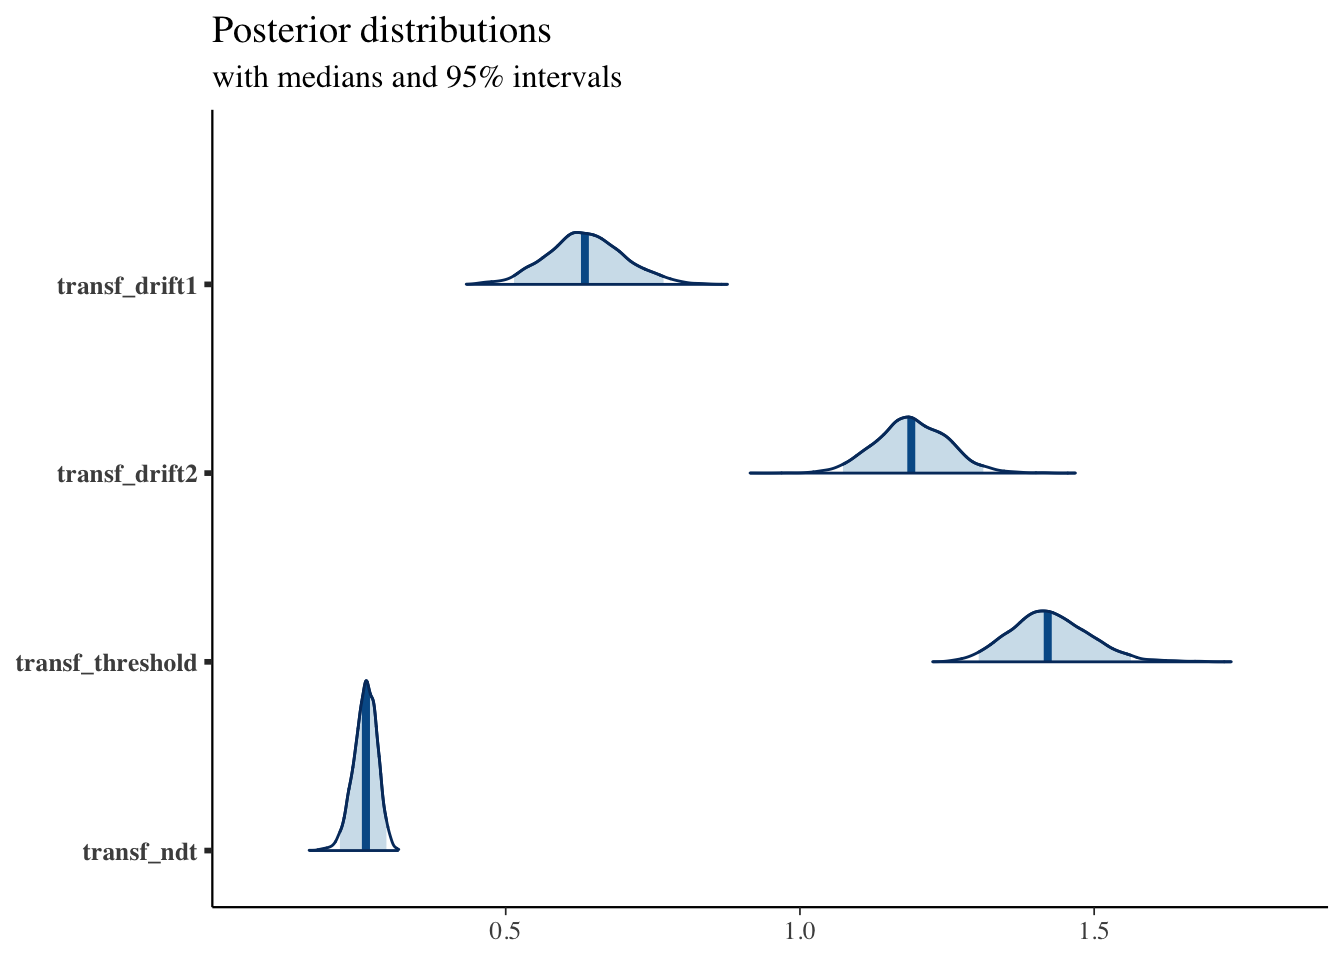
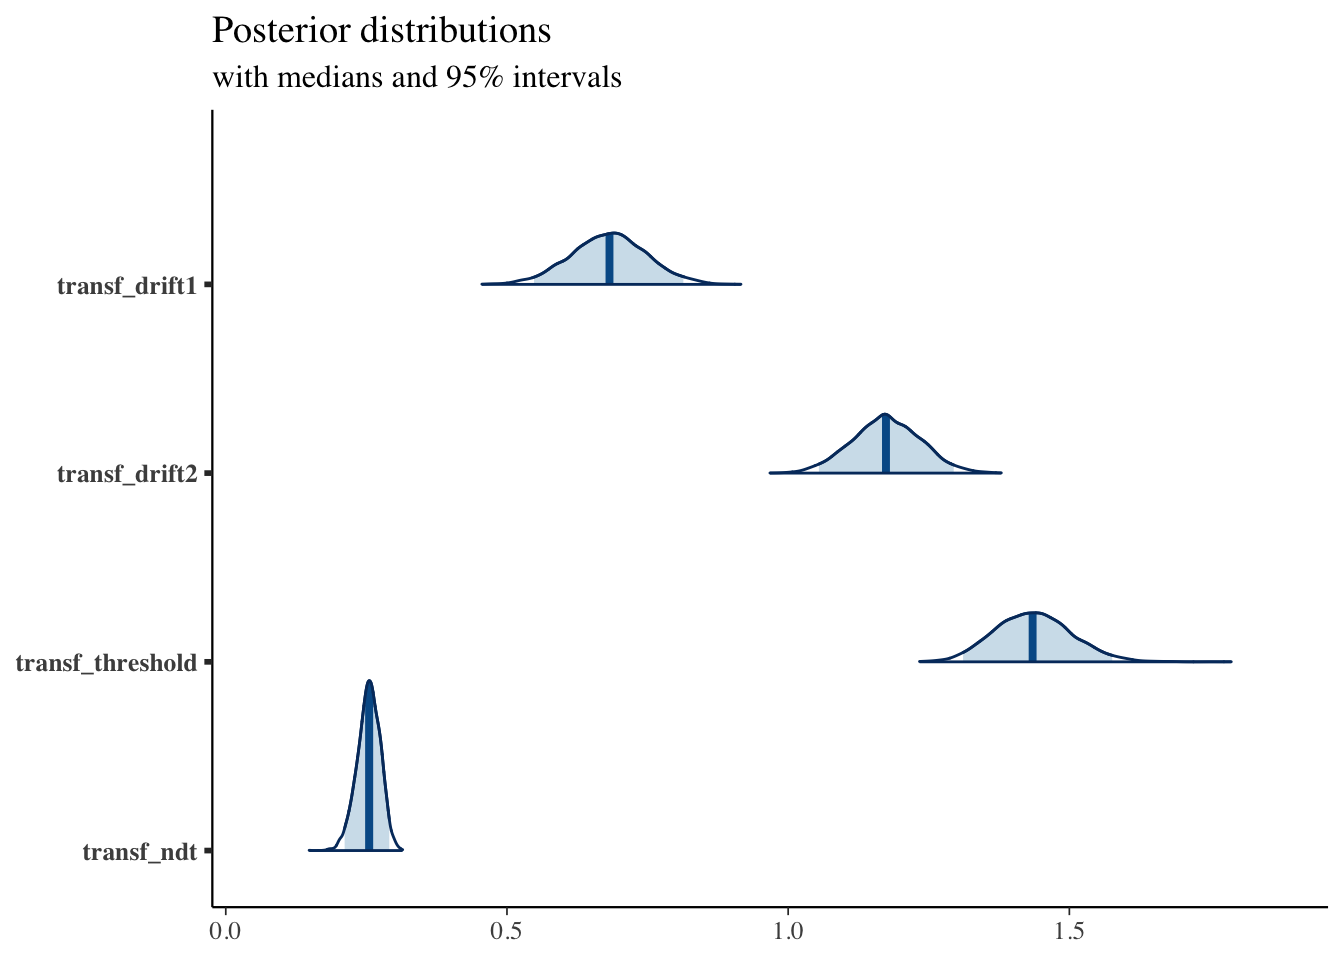
Added drift variability

diff --git a/docs/DM.html b/docs/DM.html
@@ -352,12 +352,12 @@ ggplot(data = sim_path, aes(x = time, y = dv))+
 <pre class="r"><code>sim_data &lt;- random_dm(n_trials=1000, drift=.7, threshold=1.5, ndt=.23)
 summary(sim_data)</code></pre>
 <pre><code>##      trial           accuracy           rt        
-##  Min.   :   1.0   Min.   :0.000   Min.   :0.2800  
-##  1st Qu.: 250.8   1st Qu.:0.000   1st Qu.:0.4710  
-##  Median : 500.5   Median :1.000   Median :0.6505  
-##  Mean   : 500.5   Mean   :0.745   Mean   :0.7737  
+##  Min.   :   1.0   Min.   :0.000   Min.   :0.2780  
+##  1st Qu.: 250.8   1st Qu.:0.000   1st Qu.:0.4680  
+##  Median : 500.5   Median :1.000   Median :0.6405  
+##  Mean   : 500.5   Mean   :0.746   Mean   :0.7662  
 ##  3rd Qu.: 750.2   3rd Qu.:1.000   3rd Qu.:0.9363  
-##  Max.   :1000.0   Max.   :1.000   Max.   :2.9680</code></pre>
+##  Max.   :1000.0   Max.   :1.000   Max.   :3.3230</code></pre>
 <pre class="r"><code>ggplot(data = sim_data, mapping = aes(x = rt, fill = factor(accuracy))) + 
   geom_histogram(binwidth=.05, alpha = .3, position=&quot;identity&quot;)</code></pre>
 <p><img src="DM_files/figure-html/unnamed-chunk-5-1.png" width="672" /></p>
@@ -367,12 +367,12 @@ sim_data2$accuracy = 0
 sim_data2[sim_data2$response==&quot;upper&quot;, &quot;accuracy&quot;] = 1
 summary(sim_data2)</code></pre>
 <pre><code>##        rt          response      accuracy    
-##  Min.   :0.2547   lower:268   Min.   :0.000  
-##  1st Qu.:0.4643   upper:732   1st Qu.:0.000  
-##  Median :0.6355               Median :1.000  
-##  Mean   :0.7492               Mean   :0.732  
-##  3rd Qu.:0.9257               3rd Qu.:1.000  
-##  Max.   :3.3555               Max.   :1.000</code></pre>
+##  Min.   :0.2728   lower:284   Min.   :0.000  
+##  1st Qu.:0.4623   upper:716   1st Qu.:0.000  
+##  Median :0.6041               Median :1.000  
+##  Mean   :0.7309               Mean   :0.716  
+##  3rd Qu.:0.8840               3rd Qu.:1.000  
+##  Max.   :2.8715               Max.   :1.000</code></pre>
 <div id="parameter-recovery-with-mle" class="section level2">
 <h2>Parameter recovery with MLE</h2>
 <p>An efficient approximation to the likelihood function of the DM can be found in the <a href="https://www.sciencedirect.com/science/article/pii/S0022249609000200?via%3Dihub#appC">Navarro &amp; Fuss paper</a>. In the appendix, you can find the matlab code and convert it to R. However, a computationally efficient version of it can be also found in the <code>rtdists</code> package as well. We just need to wrap it to use in the MLE fitting later on:</p>
@@ -388,14 +388,14 @@ summary(sim_data2)</code></pre>
 <pre class="r"><code>starting_values = c(.5, 1, .1) # set some starting values
 
 print(log_likelihood_dm(starting_values, data=sim_data2)) # check that starting values are plausible</code></pre>
-<pre><code>## [1] -9910.952</code></pre>
+<pre><code>## [1] -9599.715</code></pre>
 <pre class="r"><code>fit1 &lt;- nmkb(par = starting_values,
              fn = function (x) log_likelihood_dm(x, data=sim_data2),
              lower = c(0, -10, 0),
              upper = c(10, 10, 5),
              control = list(maximize = TRUE))
 print(fit1$par) # print estimated parameters</code></pre>
-<pre><code>## [1] 1.5103213 0.6715392 0.2274205</code></pre>
+<pre><code>## [1] 1.4613714 0.6382186 0.2362879</code></pre>
 </div>
 <div id="parameter-recovery-with-stan" class="section level2">
 <h2>Parameter Recovery with stan</h2>
@@ -426,11 +426,11 @@ sim_data_for_stan = list(
 ## post-warmup draws per chain=2000, total post-warmup draws=4000.
 ## 
 ##                  mean se_mean   sd 2.5%  25%  50%  75% 97.5% n_eff Rhat
-## drift            0.70       0 0.04 0.61 0.67 0.70 0.73  0.78  2774    1
-## transf_threshold 1.55       0 0.02 1.50 1.53 1.55 1.56  1.59  2194    1
-## transf_ndt       0.23       0 0.00 0.22 0.23 0.23 0.23  0.24  2213    1
+## drift            0.70       0 0.04 0.62 0.67 0.70 0.73  0.79  2914    1
+## transf_threshold 1.54       0 0.02 1.49 1.52 1.54 1.55  1.59  2661    1
+## transf_ndt       0.23       0 0.00 0.22 0.22 0.23 0.23  0.24  2752    1
 ## 
-## Samples were drawn using NUTS(diag_e) at Wed Sep  8 22:41:50 2021.
+## Samples were drawn using NUTS(diag_e) at Wed Sep  8 23:16:26 2021.
 ## For each parameter, n_eff is a crude measure of effective sample size,
 ## and Rhat is the potential scale reduction factor on split chains (at 
 ## convergence, Rhat=1).</code></pre>
@@ -439,13 +439,13 @@ sim_data_for_stan = list(
 <p><img src="DM_files/figure-html/unnamed-chunk-12-1.png" width="672" /></p>
 <pre class="r"><code>sampler_params &lt;- get_sampler_params(fit1, inc_warmup = TRUE)
 summary(do.call(rbind, sampler_params), digits = 2)</code></pre>
-<pre><code>##  accept_stat__    stepsize__       treedepth__   n_leapfrog__   divergent__        energy__    
-##  Min.   :0.00   Min.   : 0.0031   Min.   :0.0   Min.   : 1.0   Min.   :0.0000   Min.   :  821  
-##  1st Qu.:0.86   1st Qu.: 0.5584   1st Qu.:2.0   1st Qu.: 3.0   1st Qu.:0.0000   1st Qu.:  823  
-##  Median :0.95   Median : 0.6636   Median :2.0   Median : 7.0   Median :0.0000   Median :  824  
-##  Mean   :0.87   Mean   : 0.6537   Mean   :2.3   Mean   : 5.5   Mean   :0.0052   Mean   :  831  
-##  3rd Qu.:0.99   3rd Qu.: 0.6636   3rd Qu.:3.0   3rd Qu.: 7.0   3rd Qu.:0.0000   3rd Qu.:  825  
-##  Max.   :1.00   Max.   :14.3855   Max.   :6.0   Max.   :63.0   Max.   :1.0000   Max.   :10131</code></pre>
+<pre><code>##  accept_stat__    stepsize__       treedepth__   n_leapfrog__   divergent__        energy__   
+##  Min.   :0.00   Min.   :2.1e-04   Min.   :0.0   Min.   : 1.0   Min.   :0.0000   Min.   : 811  
+##  1st Qu.:0.86   1st Qu.:6.2e-01   1st Qu.:2.0   1st Qu.: 3.0   1st Qu.:0.0000   1st Qu.: 812  
+##  Median :0.95   Median :6.4e-01   Median :2.0   Median : 7.0   Median :0.0000   Median : 813  
+##  Mean   :0.87   Mean   :6.7e-01   Mean   :2.3   Mean   : 5.6   Mean   :0.0057   Mean   : 836  
+##  3rd Qu.:0.99   3rd Qu.:6.4e-01   3rd Qu.:3.0   3rd Qu.: 7.0   3rd Qu.:0.0000   3rd Qu.: 815  
+##  Max.   :1.00   Max.   :1.1e+01   Max.   :6.0   Max.   :63.0   Max.   :1.0000   Max.   :9640</code></pre>
 <p>More plotting:</p>
 <pre class="r"><code>posterior &lt;- as.matrix(fit1)
 
@@ -455,6 +455,60 @@ mcmc_areas(posterior,
            pars = c(&quot;drift&quot;, &quot;transf_threshold&quot;, &quot;transf_ndt&quot;),
            prob = 0.95) + plot_title</code></pre>
 <p><img src="DM_files/figure-html/unnamed-chunk-13-1.png" width="672" /></p>
+<p>Let’s now simulate data with across-trial variability in the drift-rate:</p>
+<pre class="r"><code>sim_data3 &lt;- rdiffusion(n=1000, a=1.5, v=.7, t0=.23, sv=1)
+sim_data3$accuracy = 0
+sim_data3[sim_data3$response==&quot;upper&quot;, &quot;accuracy&quot;] = 1
+summary(sim_data3)</code></pre>
+<pre><code>##        rt          response      accuracy    
+##  Min.   :0.2591   lower:333   Min.   :0.000  
+##  1st Qu.:0.4306   upper:667   1st Qu.:0.000  
+##  Median :0.5796               Median :1.000  
+##  Mean   :0.7041               Mean   :0.667  
+##  3rd Qu.:0.8374               3rd Qu.:1.000  
+##  Max.   :5.0391               Max.   :1.000</code></pre>
+<pre class="r"><code>sim_data3$accuracy_recoded = sim_data3$accuracy
+sim_data3[sim_data3$accuracy==0, &quot;accuracy_recoded&quot;] = -1
+
+sim_data_for_stan = list(
+  N = dim(sim_data3)[1],
+  accuracy = sim_data3$accuracy_recoded,
+  rt = sim_data3$rt,
+  starting_point = 0.5
+)</code></pre>
+<p>And fit the model with across-trial variability in the drift-rate:</p>
+<pre class="r"><code>fit2 &lt;- stan(
+  file = &quot;stan_models/DM_driftvar.stan&quot;,             # Stan program
+  data = sim_data_for_stan,                          # named list of data
+  chains = 2,                                        # number of Markov chains
+  warmup = 1000,                                     # number of warmup iterations per chain
+  iter = 3000,                                       # total number of iterations per chain
+  cores = 2                                          # number of cores (could use one per chain)
+)</code></pre>
+<p>Summary and plot:</p>
+<pre class="r"><code>print(fit2, pars = c(&quot;drift_trialmu&quot;, &quot;transf_drift_trialsd&quot;, &quot;transf_threshold&quot;, &quot;transf_ndt&quot;))</code></pre>
+<pre><code>## Inference for Stan model: DM_driftvar.
+## 2 chains, each with iter=3000; warmup=1000; thin=1; 
+## post-warmup draws per chain=2000, total post-warmup draws=4000.
+## 
+##                      mean se_mean   sd 2.5%  25%  50%  75% 97.5% n_eff Rhat
+## drift_trialmu        0.71    0.01 0.09 0.54 0.65 0.71 0.77  0.90   232 1.01
+## transf_drift_trialsd 1.22    0.02 0.27 0.67 1.04 1.22 1.40  1.76   125 1.02
+## transf_threshold     1.56    0.00 0.06 1.45 1.51 1.55 1.59  1.68   154 1.02
+## transf_ndt           0.22    0.00 0.00 0.21 0.22 0.22 0.23  0.23  1043 1.00
+## 
+## Samples were drawn using NUTS(diag_e) at Wed Sep  8 23:21:58 2021.
+## For each parameter, n_eff is a crude measure of effective sample size,
+## and Rhat is the potential scale reduction factor on split chains (at 
+## convergence, Rhat=1).</code></pre>
+<pre class="r"><code>posterior &lt;- as.matrix(fit2)
+
+plot_title &lt;- ggtitle(&quot;Posterior distributions&quot;,
+                      &quot;with medians and 95% intervals&quot;)
+mcmc_areas(posterior,
+           pars = c(&quot;drift_trialmu&quot;, &quot;transf_drift_trialsd&quot;, &quot;transf_threshold&quot;, &quot;transf_ndt&quot;),
+           prob = 0.95) + plot_title</code></pre>
+<p><img src="DM_files/figure-html/unnamed-chunk-16-1.png" width="672" /></p>
 </div>
 
 

diff --git a/docs/RLDM.html b/docs/RLDM.html
@@ -358,12 +358,12 @@ library(bayesplot)</code></pre>
 ## 4       4   54  5</code></pre>
 <pre class="r"><code>head(stimuli)</code></pre>
 <pre><code>##   trial trial_type inc_option cor_option f_inc f_cor
-## 1     1        1-2          1          2    28    27
-## 2     2        1-3          1          3    26    40
-## 3     3        2-4          2          4    41    54
-## 4     4        3-4          3          4    54    66
-## 5     5        1-2          1          2    32    32
-## 6     6        1-3          1          3    33    53</code></pre>
+## 1     1        1-2          1          2    30    37
+## 2     2        1-3          1          3    27    46
+## 3     3        2-4          2          4    35    47
+## 4     4        3-4          3          4    63    61
+## 5     5        1-2          1          2    22    33
+## 6     6        1-3          1          3    24    60</code></pre>
 <pre class="r"><code>stimuli_for_plotting &lt;- pivot_longer(stimuli, cols=c(f_inc, f_cor), names_to = &quot;option&quot;, names_prefix = &quot;f_&quot;, values_to=&quot;feedback&quot;)
 
 ggplot(data = stimuli_for_plotting, aes(x = trial, y = feedback, color=option))+
@@ -453,13 +453,13 @@ random_rldm &lt;- function(stimuli, alpha, drift_scaling, threshold, ndt, rel_sp
 <pre class="r"><code>sim_data &lt;- random_rldm(stimuli, alpha = .03, drift_scaling = .1, threshold = 1.2, ndt=.15)
 
 head(sim_data)</code></pre>
-<pre><code>##   trial trial_type inc_option cor_option f_inc f_cor   Q_cor    Q_inc      drift threshold  ndt accuracy    rt
-## 1     1        1-2          1          2    28    27 20.0000 20.00000  0.0000000       1.2 0.15        1 0.701
-## 2     2        1-3          1          3    26    40 20.0000 20.24000 -0.0240000       1.2 0.15        1 0.492
-## 3     3        2-4          2          4    41    54 20.0000 20.21000 -0.0210000       1.2 0.15        1 0.365
-## 4     4        3-4          3          4    54    66 21.0200 20.60000  0.0420000       1.2 0.15        1 0.508
-## 5     5        1-2          1          2    32    32 20.8337 20.41280  0.0420900       1.2 0.15        0 0.473
-## 6     6        1-3          1          3    33    53 21.6020 20.76042  0.0841584       1.2 0.15        1 0.297</code></pre>
+<pre><code>##   trial trial_type inc_option cor_option f_inc f_cor   Q_cor    Q_inc     drift threshold  ndt accuracy    rt
+## 1     1        1-2          1          2    30    37 20.0000 20.00000  0.000000       1.2 0.15        0 0.250
+## 2     2        1-3          1          3    27    46 20.0000 20.30000 -0.030000       1.2 0.15        0 1.832
+## 3     3        2-4          2          4    35    47 20.0000 20.51000 -0.051000       1.2 0.15        0 0.372
+## 4     4        3-4          3          4    63    61 20.8100 20.78000  0.003000       1.2 0.15        0 1.690
+## 5     5        1-2          1          2    22    33 20.9447 20.50100  0.044370       1.2 0.15        1 0.348
+## 6     6        1-3          1          3    24    60 22.0466 20.54597  0.150063       1.2 0.15        1 0.285</code></pre>
 <p>First, we can have a look at the average performance across trial-types. Note that, since the threshold was not modulated, the same performance is predicted across magnitudes:</p>
 <pre class="r"><code>sim_data$trial_bin &lt;- cut(sim_data$trial,
                           breaks = seq(min(sim_data$trial), max(sim_data$trial), length.out=7),
@@ -534,14 +534,14 @@ sim_data[sim_data$accuracy == 1, &quot;response&quot;] = &quot;upper&quot;
 starting_values = c(.5, .1, 2, .2) # set some starting values
 
 print(log_likelihood_rldm(starting_values, data=sim_data)) # check that starting values are plausible</code></pre>
-<pre><code>## [1] -474.2242</code></pre>
+<pre><code>## [1] -581.763</code></pre>
 <pre class="r"><code>fit1 &lt;- nmkb(par = starting_values,
              fn = function (x) log_likelihood_rldm(x, data=sim_data),
              lower = c(0, -10, 0, 0),
              upper = c(1, 10, 10, 5),
              control = list(maximize = TRUE))
 print(fit1$par) # print estimated parameters</code></pre>
-<pre><code>## [1] 0.01264504 0.17069675 1.28018012 0.15678612</code></pre>
+<pre><code>## [1] 0.04440228 0.10360590 1.30074250 0.14229977</code></pre>
 </div>
 <div id="parameter-recovery-with-stan" class="section level2">
 <h2>Parameter Recovery with stan</h2>
@@ -579,12 +579,12 @@ sim_data_for_stan = list(
 ## post-warmup draws per chain=2000, total post-warmup draws=4000.
 ## 
 ##                      mean se_mean   sd 2.5%  25%  50%  75% 97.5% n_eff Rhat
-## transf_alpha         0.04    0.00 0.05 0.00 0.02 0.03 0.05  0.16  1005 1.00
-## transf_drift_scaling 0.14    0.01 0.12 0.07 0.09 0.11 0.15  0.46    93 1.02
-## transf_threshold     1.29    0.00 0.05 1.20 1.25 1.28 1.32  1.39  1298 1.00
-## transf_ndt           0.15    0.00 0.01 0.14 0.15 0.16 0.16  0.17  1389 1.00
+## transf_alpha         0.08       0 0.06 0.02 0.05 0.07 0.10  0.25  1640    1
+## transf_drift_scaling 0.10       0 0.02 0.07 0.09 0.09 0.10  0.13  1888    1
+## transf_threshold     1.31       0 0.05 1.22 1.27 1.31 1.34  1.41  1840    1
+## transf_ndt           0.14       0 0.01 0.12 0.14 0.14 0.15  0.15  1800    1
 ## 
-## Samples were drawn using NUTS(diag_e) at Wed Sep  8 22:46:27 2021.
+## Samples were drawn using NUTS(diag_e) at Wed Sep  8 23:26:19 2021.
 ## For each parameter, n_eff is a crude measure of effective sample size,
 ## and Rhat is the potential scale reduction factor on split chains (at 
 ## convergence, Rhat=1).</code></pre>
@@ -594,13 +594,13 @@ sim_data_for_stan = list(
 <p><img src="RLDM_files/figure-html/unnamed-chunk-14-1.png" width="672" /></p>
 <pre class="r"><code>sampler_params &lt;- get_sampler_params(fit1, inc_warmup = TRUE)
 summary(do.call(rbind, sampler_params), digits = 2)</code></pre>
-<pre><code>##  accept_stat__    stepsize__       treedepth__   n_leapfrog__  divergent__        energy__   
-##  Min.   :0.00   Min.   :7.6e-04   Min.   :0.0   Min.   :  1   Min.   :0.0000   Min.   :  73  
-##  1st Qu.:0.86   1st Qu.:1.8e-01   1st Qu.:3.0   1st Qu.:  7   1st Qu.:0.0000   1st Qu.:  75  
-##  Median :0.96   Median :2.0e-01   Median :4.0   Median : 15   Median :0.0000   Median :  76  
-##  Mean   :0.86   Mean   :2.2e-01   Mean   :3.5   Mean   : 17   Mean   :0.0072   Mean   :  88  
-##  3rd Qu.:0.99   3rd Qu.:2.0e-01   3rd Qu.:4.0   3rd Qu.: 23   3rd Qu.:0.0000   3rd Qu.:  78  
-##  Max.   :1.00   Max.   :1.4e+01   Max.   :8.0   Max.   :383   Max.   :1.0000   Max.   :7114</code></pre>
+<pre><code>##  accept_stat__    stepsize__       treedepth__   n_leapfrog__  divergent__        energy__    
+##  Min.   :0.00   Min.   :6.2e-05   Min.   :0.0   Min.   :  1   Min.   :0.0000   Min.   :   69  
+##  1st Qu.:0.91   1st Qu.:3.0e-01   1st Qu.:3.0   1st Qu.:  7   1st Qu.:0.0000   1st Qu.:   72  
+##  Median :0.97   Median :3.6e-01   Median :3.0   Median :  7   Median :0.0000   Median :   73  
+##  Mean   :0.90   Mean   :3.9e-01   Mean   :2.9   Mean   : 10   Mean   :0.0058   Mean   :  129  
+##  3rd Qu.:0.99   3rd Qu.:3.6e-01   3rd Qu.:3.0   3rd Qu.: 15   3rd Qu.:0.0000   3rd Qu.:   74  
+##  Max.   :1.00   Max.   :1.4e+01   Max.   :8.0   Max.   :255   Max.   :1.0000   Max.   :16935</code></pre>
 <p>More plotting:</p>
 <pre class="r"><code>posterior &lt;- as.matrix(fit1)
 

diff --git a/docs/RDM.html b/docs/RDM.html
@@ -355,25 +355,25 @@ ggplot(data = sim_path, aes(x = time, y = dv, color=factor(accumulator)))+
 <pre class="r"><code>sim_data &lt;- random_rdm(n_trials=1000, drift1=.7, drift2=1.2, threshold=1.5, ndt=.23)
 summary(sim_data)</code></pre>
 <pre><code>##      trial            choice            rt        
-##  Min.   :   1.0   Min.   :1.000   Min.   :0.3920  
-##  1st Qu.: 250.8   1st Qu.:1.000   1st Qu.:0.7618  
-##  Median : 500.5   Median :2.000   Median :1.0130  
-##  Mean   : 500.5   Mean   :1.668   Mean   :1.1608  
-##  3rd Qu.: 750.2   3rd Qu.:2.000   3rd Qu.:1.4060  
-##  Max.   :1000.0   Max.   :2.000   Max.   :3.9410</code></pre>
+##  Min.   :   1.0   Min.   :1.000   Min.   :0.3150  
+##  1st Qu.: 250.8   1st Qu.:1.000   1st Qu.:0.7518  
+##  Median : 500.5   Median :2.000   Median :1.0115  
+##  Mean   : 500.5   Mean   :1.643   Mean   :1.1430  
+##  3rd Qu.: 750.2   3rd Qu.:2.000   3rd Qu.:1.3980  
+##  Max.   :1000.0   Max.   :2.000   Max.   :4.7470</code></pre>
 <pre class="r"><code>ggplot(data = sim_data, mapping = aes(x = rt, fill = factor(choice))) + 
   geom_histogram(binwidth=.05, alpha = .3, position=&quot;identity&quot;)</code></pre>
 <p><img src="RDM_files/figure-html/unnamed-chunk-5-1.png" width="672" /></p>
 <p>The same results can be obtained with the R <a href="https://osf.io/3sp9t/">code</a> attached to the original paper, which can be downloaded and loaded in R:</p>
 <pre class="r"><code>sim_data &lt;- rWaldRace(n=1000, v=c(.7, 1.2), B=1.5, A=0, t0=.23, gf = 0)
 summary(sim_data)</code></pre>
-<pre><code>##        RT               R        
-##  Min.   :0.4061   Min.   :1.000  
-##  1st Qu.:0.7432   1st Qu.:1.000  
-##  Median :0.9775   Median :2.000  
-##  Mean   :1.1495   Mean   :1.659  
-##  3rd Qu.:1.3653   3rd Qu.:2.000  
-##  Max.   :5.5369   Max.   :2.000</code></pre>
+<pre><code>##        RT               R       
+##  Min.   :0.3985   Min.   :1.00  
+##  1st Qu.:0.7441   1st Qu.:1.00  
+##  Median :0.9866   Median :2.00  
+##  Mean   :1.1444   Mean   :1.64  
+##  3rd Qu.:1.3671   3rd Qu.:2.00  
+##  Max.   :4.8739   Max.   :2.00</code></pre>
 <div id="parameter-recovery-with-mle" class="section level2">
 <h2>Parameter recovery with MLE</h2>
 <p>In the same file, we can also find the likelihood function.</p>
@@ -394,14 +394,14 @@ summary(sim_data)</code></pre>
 starting_values = c(1, 1, 1, .1) # set some starting values
 
 print(log_likelihood_rdm(starting_values, data=sim_data))</code></pre>
-<pre><code>## [1] -2043.087</code></pre>
+<pre><code>## [1] -2033.958</code></pre>
 <pre class="r"><code>fit1 &lt;- nmkb(par = starting_values,
              fn = function (x) log_likelihood_rdm(x, data=sim_data),
              lower = c(0, 0, 0, 0),
              upper = c(10, 10, 10, 5),
              control = list(maximize = TRUE))
 print(fit1$par) # print estimated parameters</code></pre>
-<pre><code>## [1] 0.6328157 1.1856495 1.4146659 0.2652961</code></pre>
+<pre><code>## [1] 0.6788203 1.1721012 1.4287021 0.2572723</code></pre>
 </div>
 <div id="parameter-recovery-with-stan" class="section level2">
 <h2>Parameter Recovery with stan</h2>
@@ -428,12 +428,12 @@ print(fit1$par) # print estimated parameters</code></pre>
 ## post-warmup draws per chain=2000, total post-warmup draws=4000.
 ## 
 ##                  mean se_mean   sd 2.5%  25%  50%  75% 97.5% n_eff Rhat
-## transf_drift1    0.64       0 0.07 0.51 0.59 0.63 0.68  0.77  1100    1
-## transf_drift2    1.19       0 0.06 1.07 1.15 1.19 1.23  1.31  1135    1
-## transf_threshold 1.43       0 0.07 1.30 1.38 1.42 1.47  1.56   848    1
-## transf_ndt       0.26       0 0.02 0.22 0.25 0.26 0.28  0.30   912    1
+## transf_drift1    0.68       0 0.07 0.55 0.64 0.68 0.73  0.81  1133    1
+## transf_drift2    1.17       0 0.06 1.05 1.13 1.17 1.22  1.29  1010    1
+## transf_threshold 1.44       0 0.07 1.31 1.39 1.43 1.48  1.58   924    1
+## transf_ndt       0.25       0 0.02 0.21 0.24 0.25 0.27  0.29  1040    1
 ## 
-## Samples were drawn using NUTS(diag_e) at Wed Sep  8 22:44:14 2021.
+## Samples were drawn using NUTS(diag_e) at Wed Sep  8 23:24:18 2021.
 ## For each parameter, n_eff is a crude measure of effective sample size,
 ## and Rhat is the potential scale reduction factor on split chains (at 
 ## convergence, Rhat=1).</code></pre>
@@ -442,13 +442,13 @@ print(fit1$par) # print estimated parameters</code></pre>
 <p><img src="RDM_files/figure-html/unnamed-chunk-11-1.png" width="672" /></p>
 <pre class="r"><code>sampler_params &lt;- get_sampler_params(fit1, inc_warmup = TRUE)
 summary(do.call(rbind, sampler_params), digits = 2)</code></pre>
-<pre><code>##  accept_stat__    stepsize__       treedepth__   n_leapfrog__  divergent__        energy__    
-##  Min.   :0.00   Min.   : 0.0037   Min.   :0.0   Min.   :  1   Min.   :0.0000   Min.   : 1246  
-##  1st Qu.:0.87   1st Qu.: 0.2321   1st Qu.:3.0   1st Qu.:  7   1st Qu.:0.0000   1st Qu.: 1248  
-##  Median :0.96   Median : 0.2483   Median :3.0   Median : 15   Median :0.0000   Median : 1249  
-##  Mean   :0.88   Mean   : 0.2593   Mean   :3.2   Mean   : 13   Mean   :0.0087   Mean   : 1253  
-##  3rd Qu.:0.99   3rd Qu.: 0.2483   3rd Qu.:4.0   3rd Qu.: 15   3rd Qu.:0.0000   3rd Qu.: 1251  
-##  Max.   :1.00   Max.   :14.3855   Max.   :7.0   Max.   :183   Max.   :1.0000   Max.   :11465</code></pre>
+<pre><code>##  accept_stat__    stepsize__       treedepth__   n_leapfrog__  divergent__        energy__   
+##  Min.   :0.00   Min.   : 0.0028   Min.   :0.0   Min.   :  1   Min.   :0.0000   Min.   :1255  
+##  1st Qu.:0.88   1st Qu.: 0.2186   1st Qu.:3.0   1st Qu.:  7   1st Qu.:0.0000   1st Qu.:1257  
+##  Median :0.96   Median : 0.2438   Median :3.0   Median : 15   Median :0.0000   Median :1258  
+##  Mean   :0.89   Mean   : 0.2587   Mean   :3.2   Mean   : 14   Mean   :0.0073   Mean   :1260  
+##  3rd Qu.:0.99   3rd Qu.: 0.2438   3rd Qu.:4.0   3rd Qu.: 15   3rd Qu.:0.0000   3rd Qu.:1260  
+##  Max.   :1.00   Max.   :14.3855   Max.   :6.0   Max.   :127   Max.   :1.0000   Max.   :2823</code></pre>
 <p>More plotting:</p>
 <pre class="r"><code>posterior &lt;- as.matrix(fit1)
 

diff --git a/docs/group_project.html b/docs/group_project.html
@@ -370,21 +370,21 @@ create_stimuli &lt;- function(n_trials, mean_1=12.375, mean_2=20.625, sd=6.1875)
 stimuli &lt;- create_stimuli(1000) # simulate 1000 trials (for example)
 summary(stimuli)</code></pre>
 <pre><code>##      dist1           dist2         source       strength     instruction 
-##  Min.   : 1.00   Min.   : 2.00   dark :526   16     : 65   accuracy:500  
-##  1st Qu.: 8.00   1st Qu.:16.00   light:474   13     : 60   speed   :500  
-##  Median :12.00   Median :20.00               14     : 55                 
-##  Mean   :12.46   Mean   :19.71               12     : 50                 
-##  3rd Qu.:16.00   3rd Qu.:24.00               17     : 48                 
-##  Max.   :33.00   Max.   :33.00               15     : 47                 
-##                                              (Other):675</code></pre>
+##  Min.   : 1.00   Min.   : 2.00   dark :518   15     : 58   accuracy:500  
+##  1st Qu.: 8.00   1st Qu.:16.00   light:482   17     : 55   speed   :500  
+##  Median :12.00   Median :20.00               14     : 53                 
+##  Mean   :12.22   Mean   :19.91               19     : 52                 
+##  3rd Qu.:16.00   3rd Qu.:24.00               20     : 52                 
+##  Max.   :30.00   Max.   :33.00               11     : 47                 
+##                                              (Other):683</code></pre>
 <pre class="r"><code>head(stimuli)</code></pre>
 <pre><code>##   dist1 dist2 source strength instruction
-## 1     7    23  light       23       speed
-## 2    14    22  light       22       speed
-## 3    14    22  light       22       speed
-## 4    15    20  light       20       speed
-## 5     5    23  light       23       speed
-## 6     9    24  light       24       speed</code></pre>
+## 1    16    31   dark       16       speed
+## 2    10    12  light       12       speed
+## 3    14    31   dark       14       speed
+## 4     4    17   dark        4       speed
+## 5     5    14   dark        5       speed
+## 6     8     8   dark        8       speed</code></pre>
 <p>Also, we can first define the DM for 1 trial, where the lower boundary corresponds to “dark” and the upper boundary corresponds to “light”:</p>
 <pre class="r"><code># simulate data from simple DM
 random_dm &lt;- function(drift, threshold, ndt=.15, rel_sp=.5, noise_constant=1, dt=0.001, max_rt=10) {
